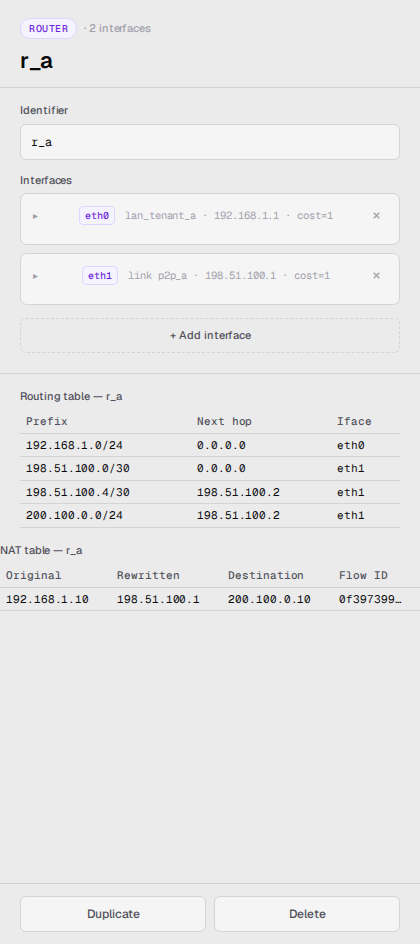
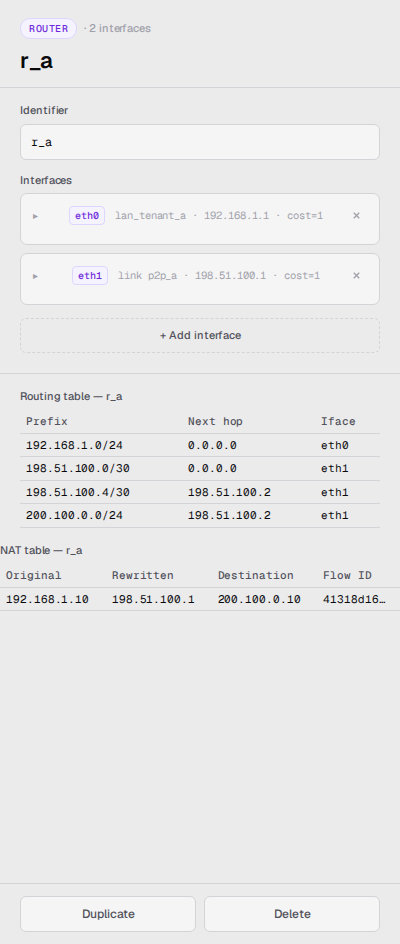
fix(web): bump default inspector pane to 400px so NAT table fits without crop

diff --git a/web/state.js b/web/state.js
@@ -94,7 +94,7 @@ export const SAMPLE = {
 
 /* ---------- layout (resizable panes) ---------- */
 export const LAYOUT_KEY = 'loom.layout';
-export const LAYOUT_DEF = { navW: 264, inspW: 350 };
+export const LAYOUT_DEF = { navW: 264, inspW: 400 };
 export const LAYOUT_LIMITS = {
   navW:  { min: 200, max: 520 },
   inspW: { min: 240, max: 600 },

diff --git a/web/styles.css b/web/styles.css
@@ -3,7 +3,7 @@
    ============================================================ */
 :root {
   --nav-w:    264px;
-  --insp-w:   332px;
+  --insp-w:   400px;
   --splitL-w: 5px;
   --splitR-w: 5px;
 }
